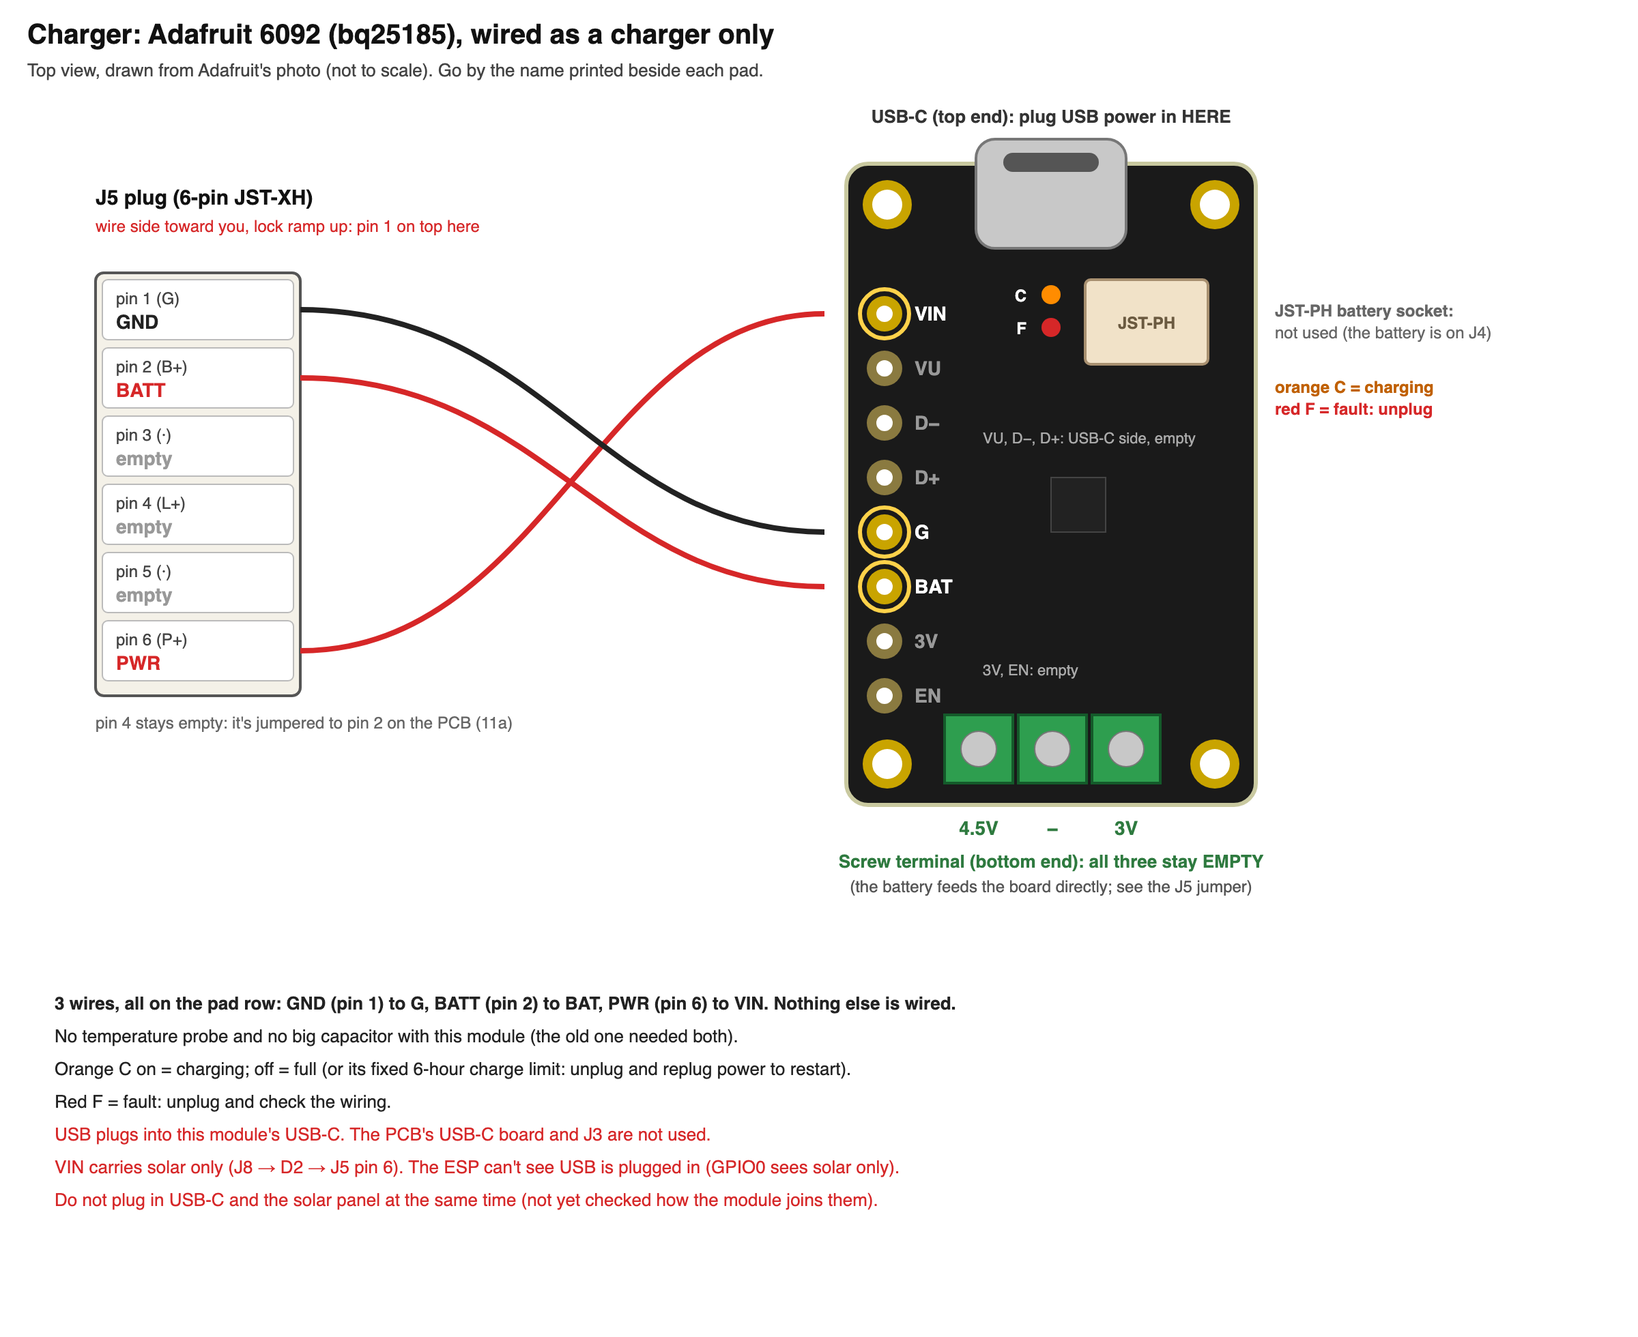
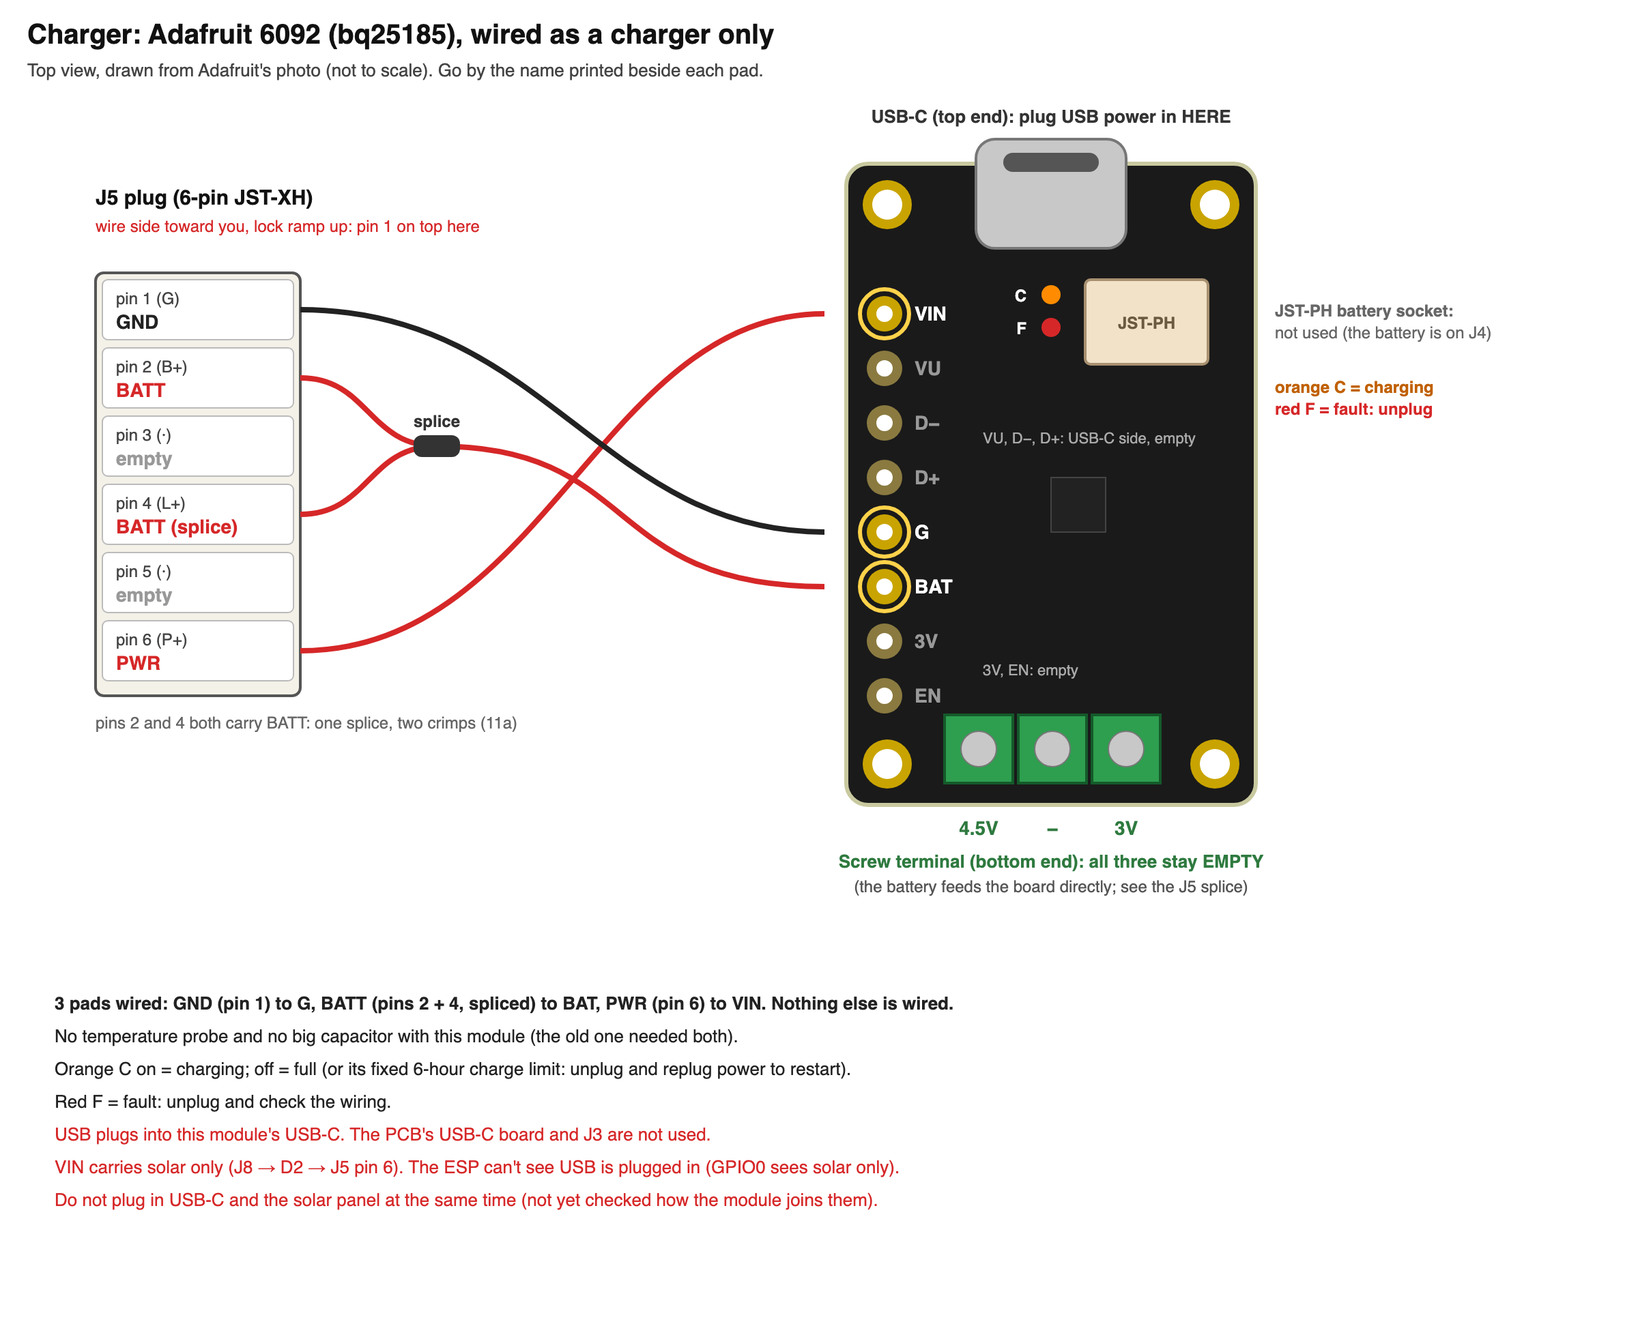
PCB build guide: battery splice in the J5 plug (slots 2 and 4) instead of a PCB jumper

diff --git a/tools/pcb_guide.py b/tools/pcb_guide.py
@@ -373,11 +373,11 @@ def charger_picture():
         o.append('<circle cx="%d" cy="%d" r="13" fill="#c8c8c8" stroke="#777"/>' % (x_ + 25, my0 + mh - 41))
         o.append(text(x_ + 25, my0 + mh + 22, name, 14, '#2e7a3f', 'bold', halo=False))
     o.append(text(mx0 + mw / 2, my0 + mh + 46, 'Screw terminal (bottom end): all three stay EMPTY', 13, '#2e7a3f', 'bold', halo=False))
-    o.append(text(mx0 + mw / 2, my0 + mh + 64, '(the battery feeds the board directly; see the J5 jumper)', 12, '#555', halo=False))
+    o.append(text(mx0 + mw / 2, my0 + mh + 64, '(the battery feeds the board directly; see the J5 splice)', 12, '#555', halo=False))
     # the J5 housing on the left, wires to the pads
     hx, hy = 70, 200
     cav = [('1', 'G', 'GND', '#222'), ('2', 'B+', 'BATT', '#d62728'), ('3', '·', 'empty', '#999'),
-           ('4', 'L+', 'empty', '#999'), ('5', '·', 'empty', '#999'), ('6', 'P+', 'PWR', '#d62728')]
+           ('4', 'L+', 'BATT (splice)', '#d62728'), ('5', '·', 'empty', '#999'), ('6', 'P+', 'PWR', '#d62728')]
     o.append(text(hx, hy - 50, 'J5 plug (6-pin JST-XH)', 15, '#111', 'bold', 'start', halo=False))
     o.append(text(hx, hy - 30, 'wire side toward you, lock ramp up: pin 1 on top here', 12, '#d62728', anchor='start', halo=False))
     o.append('<rect x="%d" y="%d" width="150" height="%d" rx="6" fill="#f4f1e8" stroke="#555" stroke-width="2"/>' % (hx, hy, 6 * 50 + 10))
@@ -388,14 +388,24 @@ def charger_picture():
         o.append(text(hx + 15, y_ + 18, 'pin %s (%s)' % (pin, silk), 12, '#444', anchor='start', halo=False))
         o.append(text(hx + 15, y_ + 36, what, 14, c, 'bold', 'start', halo=False))
         wire_y[pin] = y_ + 22
+    sx, sy = hx + 250, (wire_y['2'] + wire_y['4']) / 2          # the splice: slots 2 and 4 joined, one wire on to BAT
     for name, col, y, lab in pads:
-        y0 = wire_y[{'G': '1', 'BAT': '2', 'VIN': '6'}[name]]
+        if name == 'BAT':
+            for pin in ('2', '4'):
+                o.append('<path d="M%d %d C %d %d, %d %d, %d %d" fill="none" stroke="%s" stroke-width="4"/>' % (
+                    hx + 150, wire_y[pin], hx + 200, wire_y[pin], sx - 50, sy, sx, sy, col))
+            o.append('<path d="M%d %d C %d %d, %d %d, %d %d" fill="none" stroke="%s" stroke-width="4"/>' % (
+                sx, sy, sx + 150, sy, mx0 - 180, my0 + y, mx0 - 16, my0 + y, col))
+            o.append('<rect x="%d" y="%d" width="34" height="16" rx="6" fill="#333"/>' % (sx - 17, sy - 8))
+            o.append(text(sx, sy - 14, 'splice', 12, '#333', 'bold', halo=True))
+            continue
+        y0 = wire_y[{'G': '1', 'VIN': '6'}[name]]
         o.append('<path d="M%d %d C %d %d, %d %d, %d %d" fill="none" stroke="%s" stroke-width="4"/>' % (
             hx + 150, y0, hx + 330, y0, mx0 - 180, my0 + y, mx0 - 16, my0 + y, col))
-    o.append(text(hx, hy + 6 * 50 + 34, 'pin 4 stays empty: it\'s jumpered to pin 2 on the PCB (11a)', 12, '#666', anchor='start', halo=False))
+    o.append(text(hx, hy + 6 * 50 + 34, 'pins 2 and 4 both carry BATT: one splice, two crimps (11a)', 12, '#666', anchor='start', halo=False))
     ty0 = 740
     for k_, t in enumerate([
-            '3 wires, all on the pad row: GND (pin 1) to G, BATT (pin 2) to BAT, PWR (pin 6) to VIN. Nothing else is wired.',
+            '3 pads wired: GND (pin 1) to G, BATT (pins 2 + 4, spliced) to BAT, PWR (pin 6) to VIN. Nothing else is wired.',
             'No temperature probe and no big capacitor with this module (the old one needed both).',
             'Orange C on = charging; off = full (or its fixed 6-hour charge limit: unplug and replug power to restart).',
             'Red F = fault: unplug and check the wiring.',
@@ -408,37 +418,47 @@ def charger_picture():
     return 'pcb-build-charger.svg'
 
 
-def jumper_picture():
-    """Close-up of J5's six pins from UNDER the board: the wire that joins pin 2 (battery) to pin 4 (board supply)."""
-    o = ['<svg xmlns="http://www.w3.org/2000/svg" width="900" height="440" font-family="Helvetica,Arial">',
+def splice_picture():
+    """The J5 plug's battery splice: slot 2 and slot 4 both carry BATT, joined in one splice that goes on to the 6092's BAT.
+    The battery then feeds the board directly (J4 -> J5 pin 2 -> splice -> J5 pin 4 -> the board supply), with no change
+    to the PCB."""
+    o = ['<svg xmlns="http://www.w3.org/2000/svg" width="1000" height="560" font-family="Helvetica,Arial">',
          '<rect width="100%" height="100%" fill="#fff"/>',
-         text(20, 32, 'J5 jumper: pin 2 to pin 4, on the underside', 20, '#111', 'bold', 'start', halo=False),
+         text(20, 32, 'J5 splice: slots 2 and 4 joined (no change to the PCB)', 20, '#111', 'bold', 'start', halo=False),
          text(20, 56, 'The battery then feeds the whole board directly; the charger only charges it.', 13, '#444', anchor='start', halo=False)]
-    o.append('<rect x="60" y="100" width="780" height="200" rx="10" fill="#2f6b3a" stroke="#1d4426" stroke-width="2"/>')
-    o.append(text(450, 125, 'UNDERSIDE of the PCB at J5 (near end B, the USB-C end)', 13, '#e9efe9', 'bold', halo=False))
-    xs = [150 + 110 * k for k in range(6)]
-    for k, x in enumerate(xs):
-        if k == 0:
-            o.append('<rect x="%d" y="182" width="44" height="44" rx="4" fill="#d9b44a" stroke="#8a6d1f" stroke-width="2"/>' % (x - 22))
-        else:
-            o.append('<circle cx="%d" cy="204" r="22" fill="#d9b44a" stroke="#8a6d1f" stroke-width="2"/>' % x)
-        o.append('<circle cx="%d" cy="204" r="8" fill="#777"/>' % x)
-        o.append(text(x, 262, 'pin %d' % (k + 1), 14, '#fff', 'bold', halo=False))
-    o.append(text(xs[0], 285, 'square pad', 12, '#e9efe9', halo=False))
-    for k, lab in ((1, 'battery'), (3, 'board supply')):
-        o.append(text(xs[k], 285, lab, 12, '#ffd', 'bold', halo=False))
-    o.append('<path d="M%d 190 C %d 140, %d 140, %d 190" fill="none" stroke="#d62728" stroke-width="6"/>' % (xs[1], xs[1] + 30, xs[3] - 30, xs[3]))
-    o.append(text((xs[1] + xs[3]) / 2, 148, 'insulated wire', 13, '#fff', 'bold', halo=False))
-    o.append(text((xs[1] + xs[3]) / 2, 230, 'pin 3 NOT touched', 12, '#ffd', halo=False))
+    hx, hy = 70, 110
+    cav = [('1', 'GND', '#222'), ('2', 'BATT', '#d62728'), ('3', 'empty', '#999'), ('4', 'BATT', '#d62728'),
+           ('5', 'empty', '#999'), ('6', 'PWR', '#d62728')]
+    o.append(text(hx, hy - 12, 'J5 plug, wire side toward you, lock ramp up (pin 1 on top)', 13, '#d62728', 'bold', 'start', halo=False))
+    o.append('<rect x="%d" y="%d" width="150" height="%d" rx="6" fill="#f4f1e8" stroke="#555" stroke-width="2"/>' % (hx, hy, 6 * 50 + 10))
+    wy = {}
+    for q, (pin, what, c) in enumerate(cav):
+        y_ = hy + 5 + 50 * q
+        o.append('<rect x="%d" y="%d" width="140" height="44" rx="4" fill="#fff" stroke="#bbb"/>' % (hx + 5, y_))
+        o.append(text(hx + 15, y_ + 18, 'slot %s' % pin, 12, '#444', anchor='start', halo=False))
+        o.append(text(hx + 15, y_ + 36, what, 14, c, 'bold', 'start', halo=False))
+        wy[pin] = y_ + 22
+    sx, sy = 400, (wy['2'] + wy['4']) / 2
+    for pin in ('2', '4'):
+        o.append('<path d="M%d %d C %d %d, %d %d, %d %d" fill="none" stroke="#d62728" stroke-width="5"/>' % (
+            hx + 150, wy[pin], hx + 230, wy[pin], sx - 90, sy, sx - 20, sy))
+    o.append('<line x1="%d" y1="%d" x2="%d" y2="%d" stroke="#d62728" stroke-width="5"/>' % (sx + 20, sy, 760, sy))
+    o.append('<rect x="%d" y="%d" width="60" height="22" rx="8" fill="#333"/>' % (sx - 30, sy - 11))
+    o.append(text(sx, sy - 22, 'splice: soldered, heat-shrink over it', 13, '#333', 'bold'))
+    o.append(text(770, sy + 5, 'to the 6092\'s BAT pad', 14, '#d62728', 'bold', 'start', halo=False))
+    for pin, lab in (('1', 'to G'), ('6', 'to VIN')):
+        o.append('<line x1="%d" y1="%d" x2="%d" y2="%d" stroke="%s" stroke-width="4"/>' % (hx + 150, wy[pin], 760, wy[pin], '#222' if pin == '1' else '#d62728'))
+        o.append(text(770, wy[pin] + 5, lab, 14, '#222' if pin == '1' else '#d62728', 'bold', 'start', halo=False))
     for k_, t in enumerate([
-            'Count from the SQUARE pad (pin 1): the 2nd and the 4th pin. The square pad is pin 1 from either side of the board.',
-            'Use a short piece of insulated wire (22 AWG), stripped 2 mm at each end, soldered to the two pin joints.',
-            'It must clear pin 3. Keep it flat: the board sits 2.4 mm off the box floor.',
-            'Check: meter on beep, pin 2 to TP1 should beep. Then pull the old LOAD wire out of slot 4 of the J5 plug.']):
-        o.append(text(40, 340 + 24 * k_, t, 13, '#222', 'bold' if k_ == 0 else 'normal', 'start', halo=False))
+            'Two pre-crimped JST leads (crimp ends in slots 2 and 4) and the wire to BAT, all 22 AWG, joined in one soldered splice.',
+            'Keep the two crimped legs short (about 30 mm), so the motor current\'s loop through the plug is short.',
+            'Push both crimps in until they click, then tug-test each one. A loose crimp here cuts power to the whole board.',
+            'With the J5 plug out, the board has no power: the battery reaches it only through this plug.',
+            'Check: battery in J4, J5 plugged in, TP1 reads the battery voltage.']):
+        o.append(text(40, 440 + 22 * k_, t, 13, '#d62728' if k_ in (2, 3) else '#222', 'bold' if k_ == 0 else 'normal', 'start', halo=False))
     o.append('</svg>')
-    open(os.path.join(OUT, 'pcb-build-jumper.svg'), 'w').write('\n'.join(o))
-    return 'pcb-build-jumper.svg'
+    open(os.path.join(OUT, 'pcb-build-splice.svg'), 'w').write('\n'.join(o))
+    return 'pcb-build-splice.svg'
 
 
 def where(ref):
@@ -469,7 +489,7 @@ def md():
     open(os.path.join(OUT, 'pcb-build-done.svg'), 'w').write('\n'.join(o))
     pics.append('pcb-build-done.svg')
     pics.append(meter_picture())
-    pics.append(jumper_picture())
+    pics.append(splice_picture())
     pics.append(charger_picture())
 
     def rows(refs, cols):
@@ -509,7 +529,7 @@ def md():
                                    ', '.join(r for r, _ in lst), ', '.join(sorted({str(k) for _, k in lst}))))
     a('| ESP32-C6 SuperMini (male pins on, flashed on the bench) | 1 | plugs into J1 / J2 | 13 |')
     a('| Adafruit 6092 charger (bq25185), charging only, + 3-wire harness (6-pin XH housing) | 1 | J5 | 11 |')
-    a('| Short insulated wire for the J5 pin 2 to pin 4 jumper | 1 | J5 underside | 11 |')
+    a('| Extra pre-crimped JST lead for the J5 battery splice (slot 4) + heat-shrink | 1 | J5 plug | 11 |')
     a('| 18650 cell with its JST-XH plug | 1 | J4 | 12 |')
     a('| Solar panel lead with a JST-ZH 2-pin plug (optional) | 1 | J8 | 11 |')
     a('')
@@ -639,7 +659,7 @@ def md():
     a('| Ref | Header | For | Pins (silkscreen) |')
     a('|---|---|---|---|')
     a('| J4 | JST-XH 2-pin (B2B-XH-A) | the 18650 | **−  +** (red wire on +) |')
-    a('| J5 | JST-XH 6-pin (B6B-XH-A) | the charger harness | **G  B+  ·  L+  ·  P+** (pins 3 and 5 empty; pin 4 gets jumpered to pin 2 in step 11) |')
+    a('| J5 | JST-XH 6-pin (B6B-XH-A) | the charger harness | **G  B+  ·  L+  ·  P+** (pins 3 and 5 empty; with the 6092, pins 2 and 4 both get the battery wire: step 11) |')
     a('| J8 | JST-ZH 2-pin (B2B-ZR), the small one | solar (optional) | **−  +** |')
     a('')
     a('**Orientation is everything here.** The headers only take a plug one way, so a header soldered backwards puts the')
@@ -713,8 +733,9 @@ def md():
     a('')
     a('| Lead | Wire | Cut | From → to |')
     a('|---|---|---|---|')
-    a('| J5 jumper | 22 AWG insulated | about 8 mm | J5 pin 2 → J5 pin 4, under the PCB |')
-    a('| Charger BATT | 22 AWG, pre-crimped JST lead | 76 mm | J5 pin 2 → **BAT** pad |')
+    a('| Splice leg A | 22 AWG, pre-crimped JST lead | about 30 mm | J5 slot 2 → the splice |')
+    a('| Splice leg B | 22 AWG, pre-crimped JST lead | about 30 mm | J5 slot 4 → the splice |')
+    a('| Charger BATT | 22 AWG | about 50 mm | the splice → **BAT** pad |')
     a('| Charger GND | 22 AWG, pre-crimped JST lead | 76 mm | J5 pin 1 → **G** pad |')
     a('| Charger PWR | 22 AWG, pre-crimped JST lead | 76 mm | J5 pin 6 → **VIN** pad (carries solar) |')
     a('| Battery | the cell\'s own JST-XH lead (needs ≥ 45 mm) | as is | cell → J4 |')
@@ -722,15 +743,21 @@ def md():
     a('')
     a('The pre-crimped JST leads are 152 mm with a crimp on both ends: cut them so the crimp end goes in the J5 housing.')
     a('')
-    a('### 11a: The J5 jumper (pin 2 to pin 4)')
+    a('### 11a: The battery splice in the J5 plug (slots 2 and 4)')
     a('')
-    a('![J5 jumper](renders/pcb-build-jumper.png)')
+    a('![J5 splice](renders/pcb-build-splice.png)')
     a('')
-    a('1. Turn the board over. Find J5\'s six pins; **pin 1 is the square pad** (from either side).')
-    a('2. Solder a short insulated wire from **pin 2** (battery) to **pin 4** (board supply), clear of pin 3. Keep it flat.')
-    a('3. **Check:** meter on beep, J5 pin 2 to **TP1** beeps.')
-    a('4. If your J5 plug still has a wire in **slot 4** (the old LOAD wire), pull it out: lift the plastic tab over its crimp')
-    a('   with a pin and slide it back out.')
+    a('Nothing changes on the PCB. On the board, J5 pin 2 is the battery and pin 4 is the board supply; putting the battery')
+    a('wire in **both** slots joins them, so the battery feeds the board directly.')
+    a('')
+    a('1. Two pre-crimped leads, cut to about **30 mm**: their crimp ends go in **slot 2** and **slot 4**.')
+    a('2. Strip the two bare ends and the wire to the 6092\'s **BAT** pad, twist all three together, solder, and slide')
+    a('   heat-shrink over the joint.')
+    a('3. If your J5 plug still has the old LOAD wire in slot 4, pull it out first (lift the plastic tab over its crimp with a')
+    a('   pin and slide it back out).')
+    a('4. **Both crimps click in, then tug-test each one.** The motor current goes through these two crimps; a loose one cuts')
+    a('   power to the whole board.')
+    a('5. **With the J5 plug out, the board has no power.** The battery reaches it only through this plug.')
     a('')
     a('### 11b: Charger (Adafruit 6092)')
     a('')
@@ -802,8 +829,8 @@ def md():
     a('on **TP5 (GND)** for every reading.')
     a('')
     a('1. **Battery polarity:** hold its plug against J4: red wire over **+**, and the plug reads **+3.0 to +4.2 V**.')
-    a('2. Plug the **charger harness into J5**, then the **battery into J4**. With the J5 jumper, the battery reaches the board')
-    a('   directly.')
+    a('2. Plug the **charger harness into J5**, then the **battery into J4**. Through the splice in the J5 plug, the battery')
+    a('   reaches the board directly.')
     a('3. Measure:')
     a('')
     a('| Pad | Expect |')
@@ -813,10 +840,10 @@ def md():
     a('| TP3 3V3 | 0 V (it comes from the ESP, not plugged in yet) |')
     a('| TP4 PWR | 0 V. Plug USB into the 6092: TP4 **stays 0 V** (it only sees solar) and the orange light comes on. With the solar panel in daylight: about 5.5–6 V |')
     a('')
-    a('**TP1 is the cell** (through the J5 jumper); TP2 is always 0.1–0.4 V lower, so don\'t read the battery off TP2. While')
+    a('**TP1 is the cell** (through the J5 splice); TP2 is always 0.1–0.4 V lower, so don\'t read the battery off TP2. While')
     a('it charges the cell reads a little high: for a true reading, unplug USB for a minute first.')
     a('')
-    a('If TP1 reads 0, check the J5 jumper (pin 2 to pin 4) and that the cell isn\'t flat.')
+    a('If TP1 reads 0, check the J5 plug is in and both splice crimps (slots 2 and 4) are clicked in, and that the cell isn\'t flat.')
     a('')
     # ---- step 13
     a('## Step 13: Plug in the ESP')

diff --git a/docs/pcb-build.md b/docs/pcb-build.md
@@ -42,7 +42,7 @@ the box floor.
 | 0.75A PTC | 3 | F1, F2, F3 | 9 |
 | ESP32-C6 SuperMini (male pins on, flashed on the bench) | 1 | plugs into J1 / J2 | 13 |
 | Adafruit 6092 charger (bq25185), charging only, + 3-wire harness (6-pin XH housing) | 1 | J5 | 11 |
-| Short insulated wire for the J5 pin 2 to pin 4 jumper | 1 | J5 underside | 11 |
+| Extra pre-crimped JST lead for the J5 battery splice (slot 4) + heat-shrink | 1 | J5 plug | 11 |
 | 18650 cell with its JST-XH plug | 1 | J4 | 12 |
 | Solar panel lead with a JST-ZH 2-pin plug (optional) | 1 | J8 | 11 |
 
@@ -173,7 +173,7 @@ Three different headers, so no plug fits the wrong one:
 | Ref | Header | For | Pins (silkscreen) |
 |---|---|---|---|
 | J4 | JST-XH 2-pin (B2B-XH-A) | the 18650 | **−  +** (red wire on +) |
-| J5 | JST-XH 6-pin (B6B-XH-A) | the charger harness | **G  B+  ·  L+  ·  P+** (pins 3 and 5 empty; pin 4 gets jumpered to pin 2 in step 11) |
+| J5 | JST-XH 6-pin (B6B-XH-A) | the charger harness | **G  B+  ·  L+  ·  P+** (pins 3 and 5 empty; with the 6092, pins 2 and 4 both get the battery wire: step 11) |
 | J8 | JST-ZH 2-pin (B2B-ZR), the small one | solar (optional) | **−  +** |
 
 **Orientation is everything here.** The headers only take a plug one way, so a header soldered backwards puts the
@@ -242,8 +242,9 @@ only 0.05–0.15 A instead of 0.35 A, even off the PCB, and starved the ESP on U
 
 | Lead | Wire | Cut | From → to |
 |---|---|---|---|
-| J5 jumper | 22 AWG insulated | about 8 mm | J5 pin 2 → J5 pin 4, under the PCB |
-| Charger BATT | 22 AWG, pre-crimped JST lead | 76 mm | J5 pin 2 → **BAT** pad |
+| Splice leg A | 22 AWG, pre-crimped JST lead | about 30 mm | J5 slot 2 → the splice |
+| Splice leg B | 22 AWG, pre-crimped JST lead | about 30 mm | J5 slot 4 → the splice |
+| Charger BATT | 22 AWG | about 50 mm | the splice → **BAT** pad |
 | Charger GND | 22 AWG, pre-crimped JST lead | 76 mm | J5 pin 1 → **G** pad |
 | Charger PWR | 22 AWG, pre-crimped JST lead | 76 mm | J5 pin 6 → **VIN** pad (carries solar) |
 | Battery | the cell's own JST-XH lead (needs ≥ 45 mm) | as is | cell → J4 |
@@ -251,15 +252,21 @@ only 0.05–0.15 A instead of 0.35 A, even off the PCB, and starved the ESP on U
 
 The pre-crimped JST leads are 152 mm with a crimp on both ends: cut them so the crimp end goes in the J5 housing.
 
-### 11a: The J5 jumper (pin 2 to pin 4)
+### 11a: The battery splice in the J5 plug (slots 2 and 4)
 
-![J5 jumper](renders/pcb-build-jumper.png)
+![J5 splice](renders/pcb-build-splice.png)
 
-1. Turn the board over. Find J5's six pins; **pin 1 is the square pad** (from either side).
-2. Solder a short insulated wire from **pin 2** (battery) to **pin 4** (board supply), clear of pin 3. Keep it flat.
-3. **Check:** meter on beep, J5 pin 2 to **TP1** beeps.
-4. If your J5 plug still has a wire in **slot 4** (the old LOAD wire), pull it out: lift the plastic tab over its crimp
-   with a pin and slide it back out.
+Nothing changes on the PCB. On the board, J5 pin 2 is the battery and pin 4 is the board supply; putting the battery
+wire in **both** slots joins them, so the battery feeds the board directly.
+
+1. Two pre-crimped leads, cut to about **30 mm**: their crimp ends go in **slot 2** and **slot 4**.
+2. Strip the two bare ends and the wire to the 6092's **BAT** pad, twist all three together, solder, and slide
+   heat-shrink over the joint.
+3. If your J5 plug still has the old LOAD wire in slot 4, pull it out first (lift the plastic tab over its crimp with a
+   pin and slide it back out).
+4. **Both crimps click in, then tug-test each one.** The motor current goes through these two crimps; a loose one cuts
+   power to the whole board.
+5. **With the J5 plug out, the board has no power.** The battery reaches it only through this plug.
 
 ### 11b: Charger (Adafruit 6092)
 
@@ -330,8 +337,8 @@ Meter on **DC volts** (V with a straight line, "V⎓" or "DCV", not the wavy V~;
 on **TP5 (GND)** for every reading.
 
 1. **Battery polarity:** hold its plug against J4: red wire over **+**, and the plug reads **+3.0 to +4.2 V**.
-2. Plug the **charger harness into J5**, then the **battery into J4**. With the J5 jumper, the battery reaches the board
-   directly.
+2. Plug the **charger harness into J5**, then the **battery into J4**. Through the splice in the J5 plug, the battery
+   reaches the board directly.
 3. Measure:
 
 | Pad | Expect |
@@ -341,10 +348,10 @@ on **TP5 (GND)** for every reading.
 | TP3 3V3 | 0 V (it comes from the ESP, not plugged in yet) |
 | TP4 PWR | 0 V. Plug USB into the 6092: TP4 **stays 0 V** (it only sees solar) and the orange light comes on. With the solar panel in daylight: about 5.5–6 V |
 
-**TP1 is the cell** (through the J5 jumper); TP2 is always 0.1–0.4 V lower, so don't read the battery off TP2. While
+**TP1 is the cell** (through the J5 splice); TP2 is always 0.1–0.4 V lower, so don't read the battery off TP2. While
 it charges the cell reads a little high: for a true reading, unplug USB for a minute first.
 
-If TP1 reads 0, check the J5 jumper (pin 2 to pin 4) and that the cell isn't flat.
+If TP1 reads 0, check the J5 plug is in and both splice crimps (slots 2 and 4) are clicked in, and that the cell isn't flat.
 
 ## Step 13: Plug in the ESP
 
